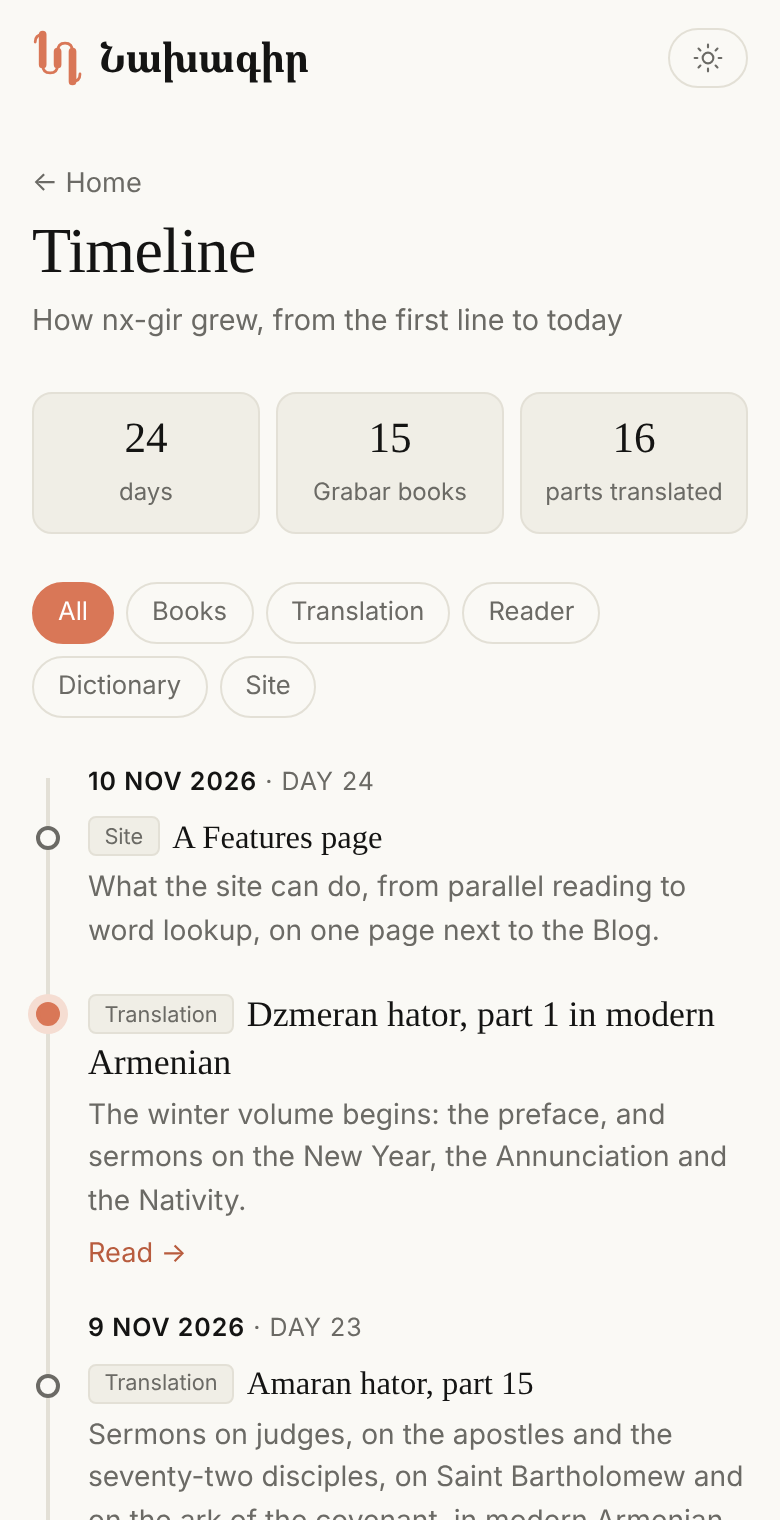
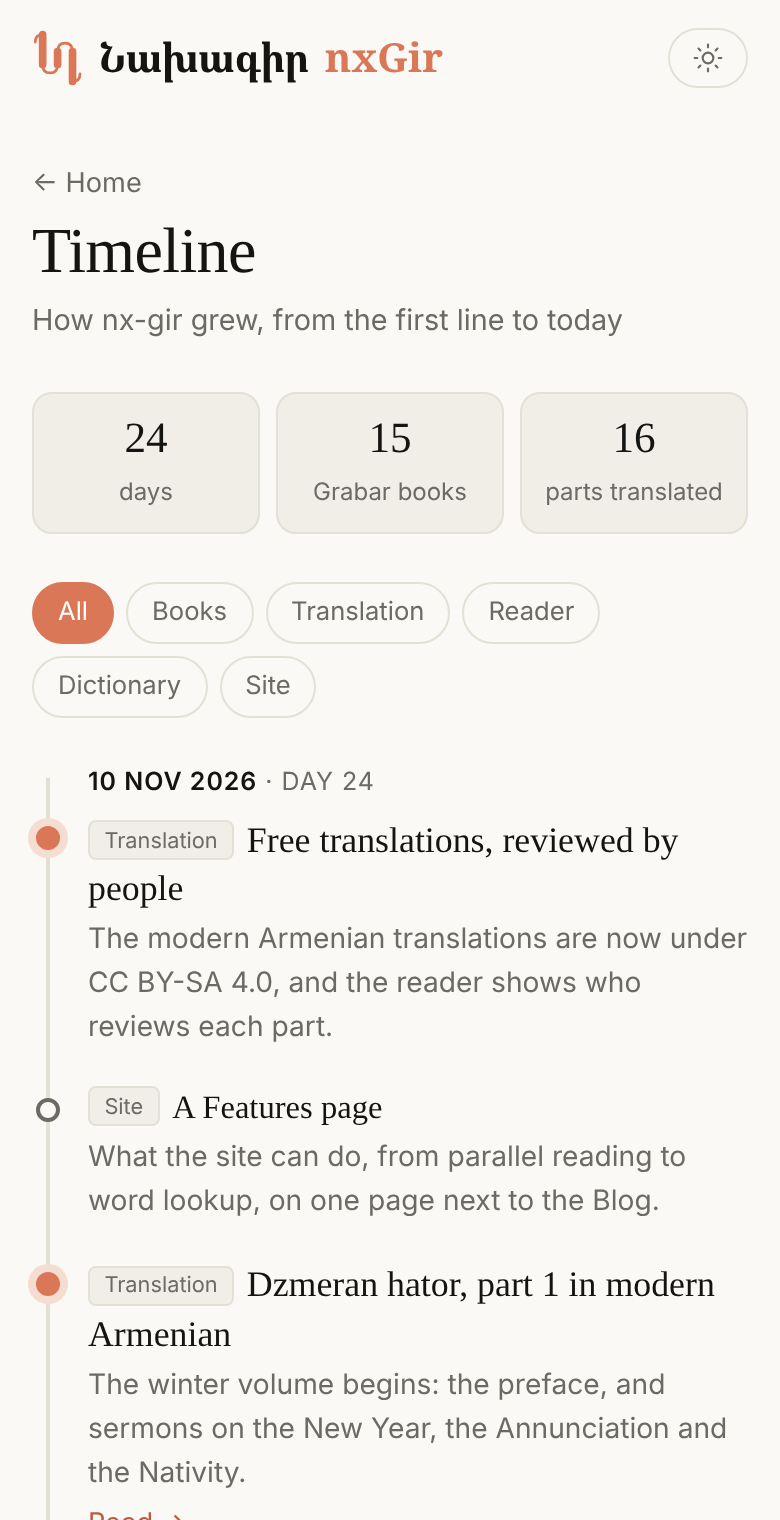
Header: nxGir beside Նախագիր, Noto Serif bold in the accent color
Also on the plain book and blog pages; README timeline
screenshot rendered again.

Claude-Session: https://claude.ai/code/session_01MmoF2qyxoB4D2nBrMMMzFR

diff --git a/web/index.html b/web/index.html
@@ -31,7 +31,8 @@
 </head>
 <body>
 <header class="bar" data-nosnippet>
-  <a class="brand" href="#/" aria-label="Նախագիր">
+  <a class="brand" href="#/"
+    aria-label="Նախագիր nxGir">
     <svg class="brand-mark" viewBox="4 3 24 26"
       aria-hidden="true">
       <path stroke-width="1.3"
@@ -42,6 +43,7 @@
         d="M9 5V19M16 13V19M23 13V27"/>
     </svg>
     <span class="brand-hy" lang="hy">Նախագիր</span>
+    <span class="brand-en">nxGir</span>
   </a>
   <div class="top-btns">
     <button id="view" class="icon-btn"

diff --git a/web/style.css b/web/style.css
@@ -220,6 +220,13 @@ main {
     var(--serif);
 }
 
+/* the Latin name beside it, in the logo's color */
+.brand-en {
+  font: 700 1.25rem "nx Noto Serif Armenian",
+    var(--serif);
+  color: var(--accent);
+}
+
 .icon-btn {
   display: inline-flex;
   align-items: center;

diff --git a/scripts/build-site.py b/scripts/build-site.py
@@ -310,7 +310,10 @@ PAGE = """<!doctype html>
 </head>
 <body>
 <header class="bar">
-  <a class="brand" href="./" lang="hy">Նախագիր</a>
+  <a class="brand" href="./">
+    <span class="brand-hy" lang="hy">Նախագիր</span>
+    <span class="brand-en">nxGir</span>
+  </a>
 </header>
 <main class="plain">
 <p><a href="{reader}">{open}</a></p>
